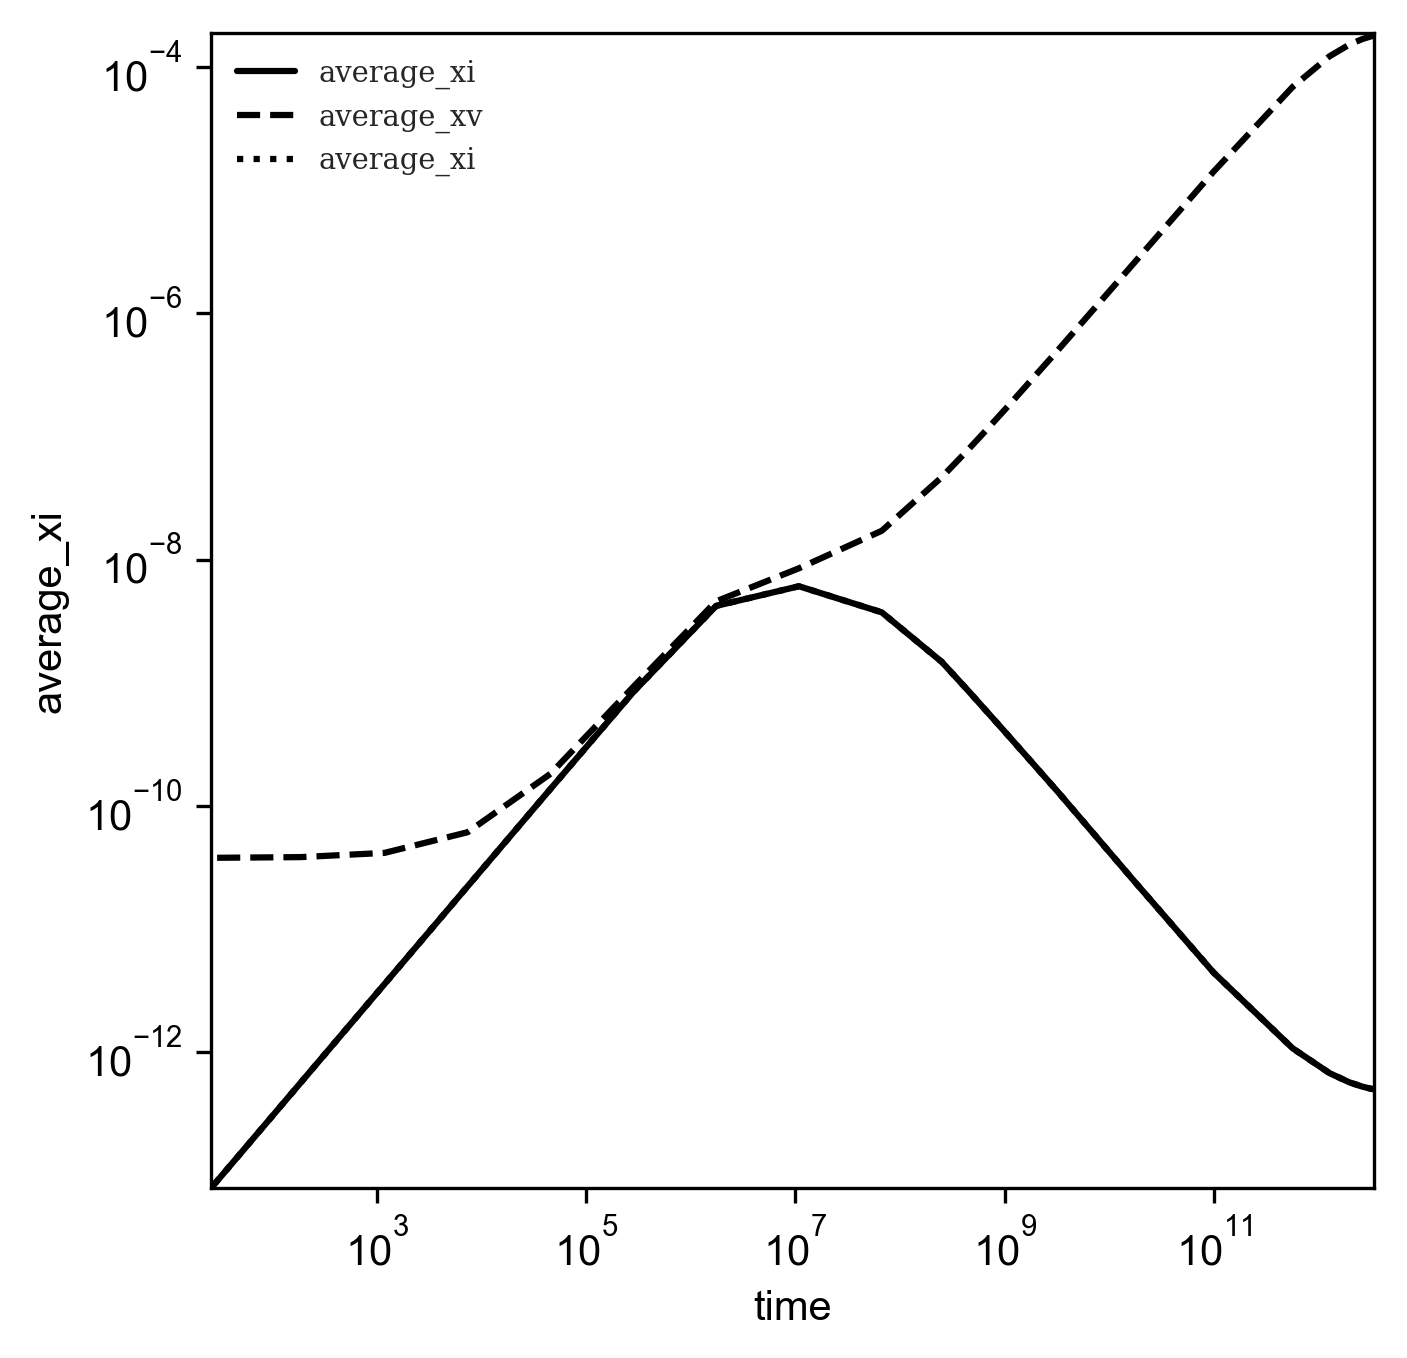
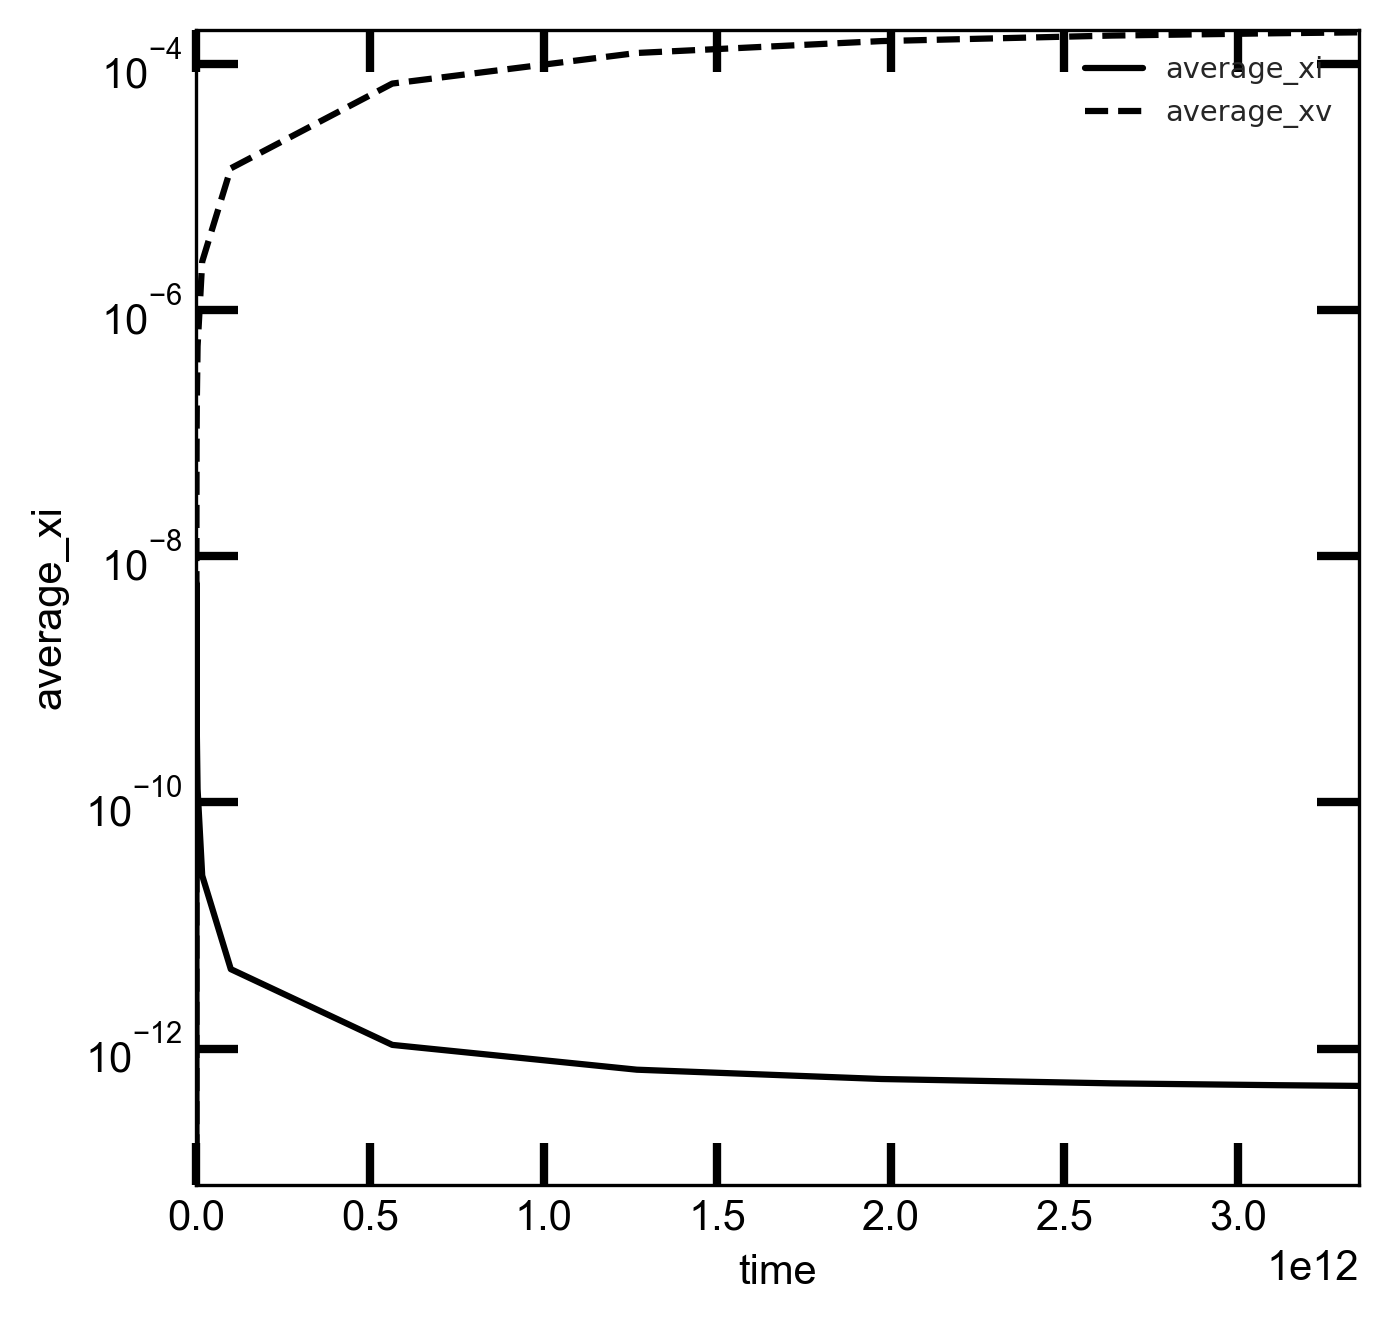
plotting_script update

diff --git a/scripts/plot.py b/scripts/plot.py
@@ -6,11 +6,11 @@ import pandas as pd
 import matplotlib.pyplot as plt
 
 
-                # ------------------------------------------------------- #
-                # ======================================================= #
-                # Pyhton script to plot data from MOOSE csv output files. #
-                # ======================================================= #
-                # ----------------------------------------------eigenturk #
+# -------------------------------------------------------------------------------------------------------------- #
+# ============================================================================================================== #
+#                           Pyhton script to plot data from MOOSE csv output files.                              #
+# ============================================================================================================== #
+# -----------------------------------------------------------------------------------------------------eigenturk #
 
 
 def getHelp():
@@ -26,19 +26,21 @@ def getHelp():
           "\tcolumn_number\t\tThe column number of the data in csv file\n\n"
           "Optional arguments:\n\n"
           "  -h, Show this help message and exit.\n"
-          "  -s, Save only mode, plot wont be shown.\n\n"
+          "  -s, Save only mode, plot wont be shown.\n"
+          "  -g, Gray scale mode, plot will be in black and white scale.\n\n"
           "  -f, Multiple file mode."+'\033[91m'+" << ! Depricated, will be deleted. !\n\n"+'\033[0m'
           '\033[4m'+'\033[1m'+"Manual for commands :\n\n"+'\033[0m'
-          "Note  : To make using this script easy, create 'plot' command by adding following line to bash profile.\n"
-          '\033[92m'+"\tCheck script file path(e.g. projects/scripts/plot.py)\n"+'\033[0m'
+          "Note  : To make it easy, create 'plot' command by adding following line to your shell profile.\n"
           '\033[92m'+"\talias plot=\"python projects/scripts/plot.py\"\n"+'\033[0m'
           "\n-Plotting data from a single file\n"
-          '\033[93m'+"\tplot filename column_number(x) column_number(y1) column_number(y2)....column_number(yn)\n"+'\033[0m'
+          '\033[93m'+"\tplot filename column_number(x) column_number(y1).....column_number(yn)\n"+'\033[0m'
           "\n-Plotting data from multiple files\n"
           '\033[91m'+"\tFirst, append name of all csv files to a seperate file (e.g. \"csvfiles\"),then use name of that file in command line.\n"
           '\033[93m'+"\tplot csvfiles column_number(x) column_number(y)\n"+'\033[0m'
-          "\n-Save a plot without showing it by using -s option at end of the command\n"
-          '\033[93m'+"\tplot filename column_number(x) column_number(y1) column_number(y2)....column_number(yn) -s\n"+'\033[0m')
+          "\n-Save a plot without showing it by adding \"-s\" at end of the command\n"
+          '\033[93m'+"\tplot filename column_number(x) column_number(y1).....column_number(yn) -s\n"+'\033[0m'
+          "\n-Use gray color scale for plotting by adding \"-g\" at end of the command\n"
+          '\033[93m'+"\tplot filename column_number(x) column_number(y1).....column_number(yn) -g\n"+'\033[0m')
     sys.exit()
 
 if sys.argv[-1]=="-"+"h":
@@ -51,8 +53,14 @@ filename = sys.argv[1]
 file = open(filename)
 figname=filename[:-4]+".png"
 
+fmode = False
 if sys.argv[-2]=="-"+"f" or sys.argv[-1]=="-"+"f":   # WILL BE DEPRICATED
     fmode = True
+    n=n-1
+
+gmode = False   #black and white mode
+if sys.argv[-2]=="-"+"g" or sys.argv[-1]=="-"+"g":
+    gmode = True
     n=n-1
 
 if re.search(".csv",file.readlines()[0]):
@@ -65,36 +73,37 @@ if re.search(".csv",file.readlines()[0]):
     for i in range(0,len(filenames)):
         csvfile.append(filenames[i][:-1])
 else:
-    fmode=False
+    fmode = False
     print('\033[92m'+"Single File Mode : Data from a single file was plotted."+'\033[0m')
     csvfile = [filename]
 
-smode=False
+smode = False
 if sys.argv[-2]=="-"+"s" or sys.argv[-1]=="-"+"s":
     print("-s mode : save only mode, plot wont be shown")
     smode = True
     n=n-1
 
-# Figure Settings
 #=============================================================================
+#                               Figure Settings
+#=============================================================================
+mf=2   #Marker frequency
 
 #Create Figure
 fig = plt.figure(figsize=(5, 5))
 ax = fig.add_subplot(1, 1, 1)
 
 # Plotting Style,Color Palette,Markers and Line Styles
-linestyles = ["solid","dashed","dotted","dashdot"]
+linestyles = ["solid","dotted","dashdot","dashed"]
+markers = ["",""]
 plt.style.use('seaborn-whitegrid')
-if fmode == False:
-    markers = ["",""]
-    palette = plt.get_cmap('gray')  # Black and White Scale
-else:
-    #option 1 : use different colors
-    markers = ["",""]
+
+if gmode == True: # Use Gray Color Scale
+    palette = plt.get_cmap('gray')  # Black and White Color Scale, {gnuplot}
+    if fmode == True:  #For Single file, use only linestyles, dont use markers,
+        markers = ["","o", "s", "v","X"]
+else: # Colorful plotting
     palette = plt.get_cmap('Set1')  # Color Scale, {Set1,Set2,Set3,Dark2,tab10},tab20,Pastel1}
-    #option 2 : use different markers
-    # markers = ["","s", "o", "v","X"]
-    # palette = plt.get_cmap('gray')  # Black and White Scale
+
 
 #=============================================================================
 
@@ -113,7 +122,6 @@ for fid in range(0,len(csvfile)):
     df=pd.DataFrame(data,columns=headers)
 
     # Read Command Line Arguments
-    # print(sys.argv)
     log = [0]*n
     for i in range(2,n):
         c=0
@@ -130,7 +138,6 @@ for fid in range(0,len(csvfile)):
                     if c==len(headers[j]):
                         sys.argv[i]=str(j)
                         break
-    # print(sys.argv)
 
     #Labels
     xlbl = headers[int(sys.argv[2])]
@@ -144,19 +151,11 @@ for fid in range(0,len(csvfile)):
     ymin=np.min(data[:, int(sys.argv[3])])
     ymax=np.max(data[:, int(sys.argv[3])])*1.05
 
-    # Plot the data  ::  CHECK THIS !!!
-
-    # #Using DataFrame
-    # num=0
-    # for column in df.drop(arg[2], axis=1):
-    #     num+=1
-    #     plt.plot(df[arg[2], df[column], marker='', color=palette(num), linewidth=1, alpha=0.9, label=column)
-
-
-    # PLOT DATA
-    # Multiple lines plot
+    #=============================================================================
+    #                           Plotting Data
+    #=============================================================================
     num=0
-    # lbl=""
+    markevery=len(data)/(10*mf)
     for column in range(3,n):
         if fmode==1:
             lbl = csvfile[fid]#[-30:]     ## CHANGE THIS ACCORDING TO PARAMETER IN THE END OF FILENAME
@@ -164,9 +163,9 @@ for fid in range(0,len(csvfile)):
         else:
             lbl = headers[int(sys.argv[column])]
         if log[column]==1:
-            ax.semilogy(data[:, int(sys.argv[2])], data[:, int(sys.argv[column])],ls=linestyles[num%4],marker=markers[fid%5],markevery=2,color=palette(fid), linewidth=1.5, alpha=1,label=lbl)
+            ax.semilogy(data[:, int(sys.argv[2])], data[:, int(sys.argv[column])],ls=linestyles[num%4],marker=markers[fid%5],markersize=5,markevery=markevery,color=palette(fid), linewidth=1.5, alpha=1,label=lbl)
         else:
-            ax.plot(data[:, int(sys.argv[2])], data[:, int(sys.argv[column])],ls=linestyles[num%4],marker=markers[fid%5],markevery=2, color=palette(fid), linewidth=1.5, alpha=1,label=lbl)
+            ax.plot(data[:, int(sys.argv[2])], data[:, int(sys.argv[column])],ls=linestyles[num%4],marker=markers[fid%5],markersize=5,markevery=markevery, color=palette(fid), linewidth=1.5, alpha=1,label=lbl)
         if log[2]==1:
             ax.set_xscale('log',basex=10)
         if np.min(data[:, int(sys.argv[column])])<ymin:
@@ -179,27 +178,31 @@ for fid in range(0,len(csvfile)):
 
 print(headers)
 
-# Plot Settings
 #=============================================================================
-plt.rc('font', family='Avenir')
-plt.rc('xtick', labelsize='x-small')
-plt.rc('ytick.major', size=4, pad=4)
-plt.rc('ytick.minor', size=2, pad=4)
-plt.rc('ytick', labelsize='x-small')
+#                               Plot Settings
+#=============================================================================
 
+# Font Settings
+plt.rcParams['font.family']='Times New Roman'
+plt.rcParams['font.size'] = 12
+# Tick Settings
+ax.xaxis.set_tick_params(which='major', size=5, width=1, direction='in', top=True)
+ax.xaxis.set_tick_params(which='minor', size=3, width=1, direction='in', top=True)
+ax.yaxis.set_tick_params(which='major', size=5, width=1, direction='in', right=True)
+ax.yaxis.set_tick_params(which='minor', size=3, width=1, direction='in', right=True)
 # Hide or Show the top and right spines of the axis
 ax.spines['right'].set_visible(True)
 ax.spines['top'].set_visible(True)
-
-# Labels
+# Set Labels
 plt.xlim(xmin,xmax)
-ax.tick_params(axis='both')
 ax.set_xlabel(xlbl)
 ax.set_ylabel(ylbl)
+# Add Legend and title
+plt.legend(loc=0, ncol=1,fontsize='medium')
+plt.title(filename)
+
 # plt.axis('equal')               # fix x and y axis
 # plt.autoscale(enable=True, axis='x', tight=True)   #autoscale x and y axis
-# Add Legend
-plt.legend(loc=0, ncol=1,fontsize='x-small')
 if smode == True: #save only
     fig.savefig(figname, bbox_inches='tight',dpi=300, transparent=False)
 else:

diff --git a/examples/point_defects/article/article_plot.py b/examples/point_defects/article/article_plot.py
@@ -191,7 +191,10 @@ ax.spines['top'].set_visible(True)
 
 # Labels
 plt.xlim(xmin,xmax)
-ax.tick_params(axis='both')
+ax.xaxis.set_tick_params(which='major', size=5, width=1, direction='in', top='on')
+ax.xaxis.set_tick_params(which='minor', size=3, width=1, direction='in', top='on')
+ax.yaxis.set_tick_params(which='major', size=5, width=1, direction='in', right='on')
+ax.yaxis.set_tick_params(which='minor', size=3, width=1, direction='in', right='on')
 ax.set_xlabel(xlbl)
 ax.set_ylabel(ylbl)
 # plt.axis('equal')               # fix x and y axis
